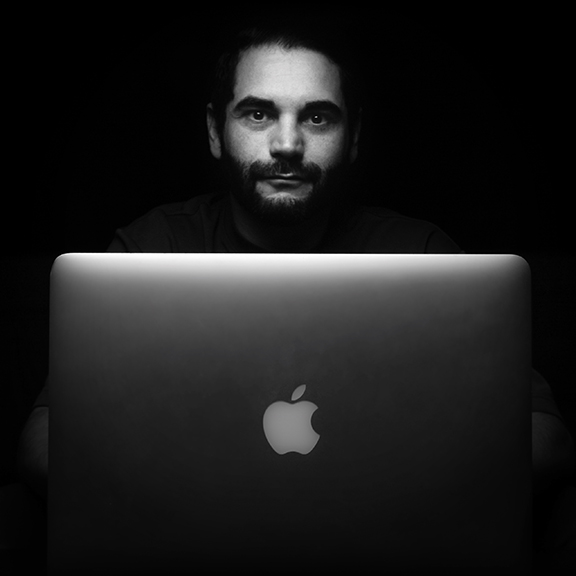
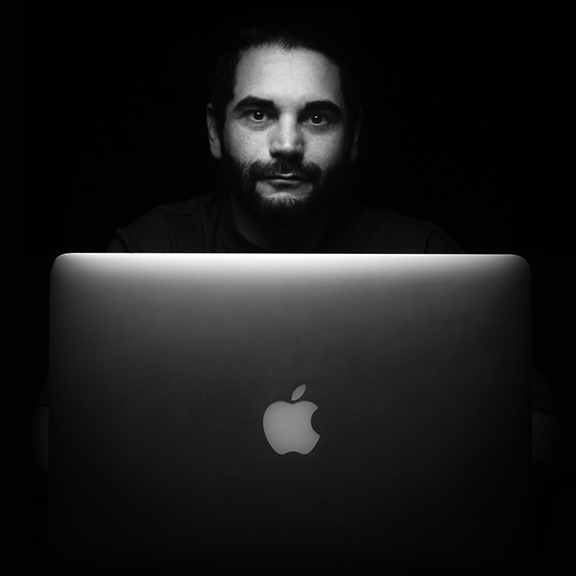
changes1

Changed region(s): [[0.0938, 0.4375, 0.1875, 0.5], [0.8125, 0.4375, 0.9062, 0.4688]]

diff --git a/porfolio_Leger_Eric/assets/css/index.css b/porfolio_Leger_Eric/assets/css/index.css
@@ -4,7 +4,7 @@
   
 main{
   
-  background: #000;
+ 
   align-items: center;
   width: 100%;
   height: 70vh;
@@ -39,7 +39,6 @@ main{
   mix-blend-mode: multiply;
 }
 figure{
-  background: #000;
   width: 40%;
   height: 70vh;
   display: flex;

diff --git a/porfolio_Leger_Eric/assets/css/apropos.css b/porfolio_Leger_Eric/assets/css/apropos.css
@@ -5,7 +5,7 @@
 
 main{
     width: 100%;
-    height: 170vh;
+    height: 200vh;
     background: yellow;
     display: flex;
     justify-content: space-around;
